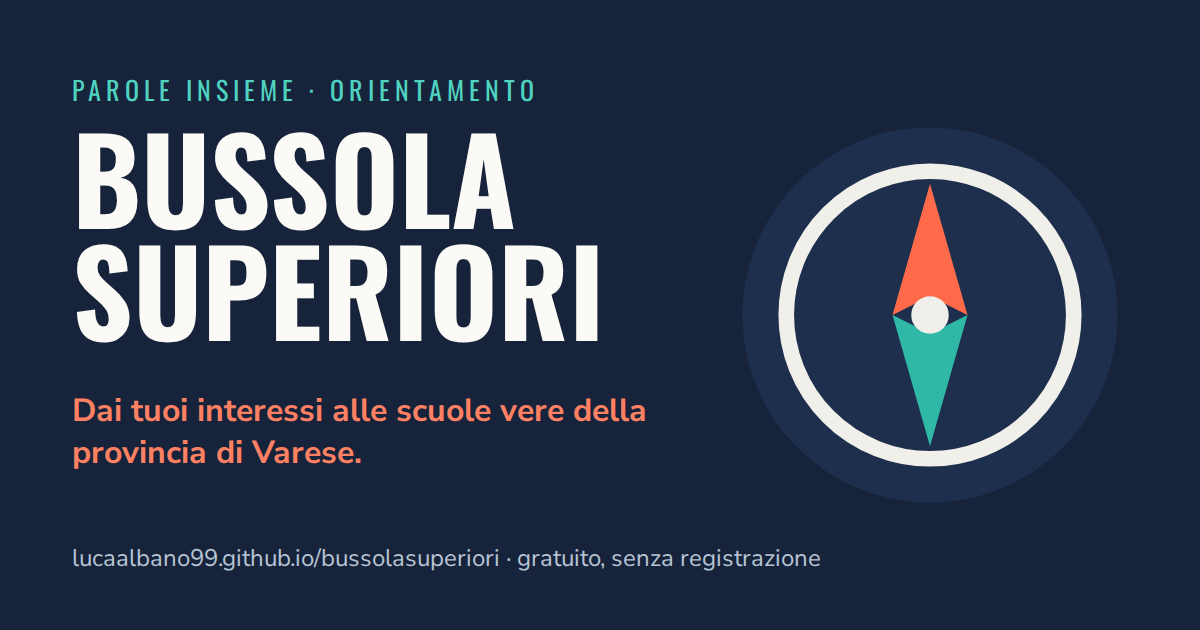
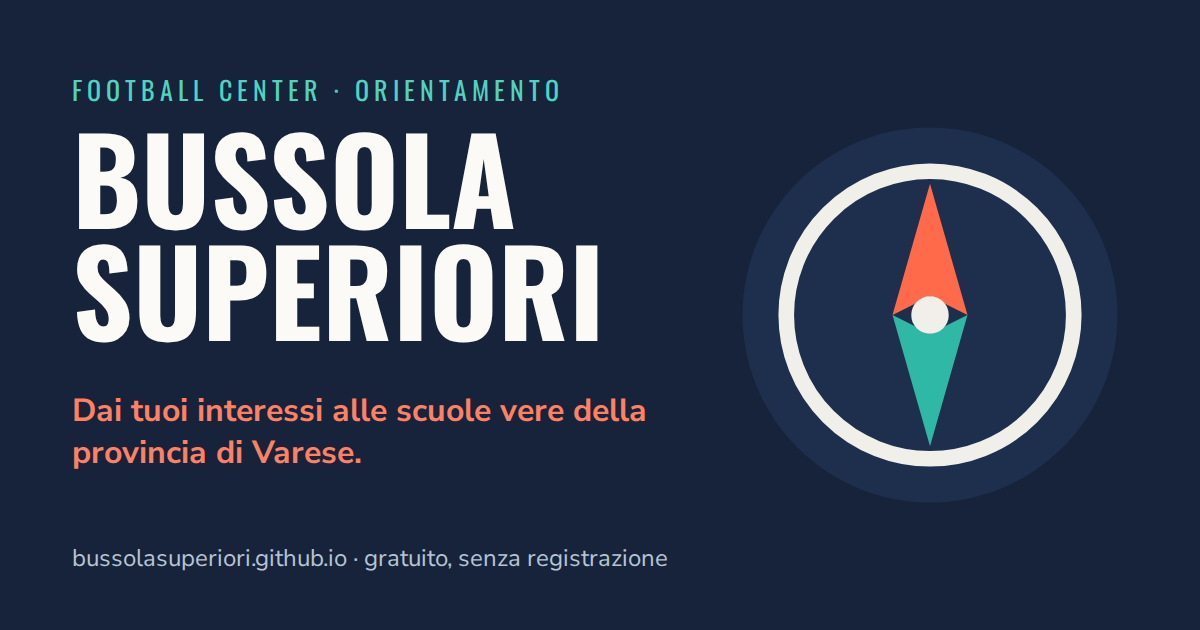
Add files via upload

Changed region(s): [[0.0617, 0.1206, 0.4625, 0.181], [0.0617, 0.8746, 0.6783, 0.9048]]

diff --git a/index.html b/index.html
@@ -3,13 +3,13 @@
 <head>
 <meta charset="utf-8">
 <meta name="viewport" content="width=device-width, initial-scale=1">
-<title>Orientamento superiori · Parole Insieme</title>
+<title>Orientamento superiori · Football Center</title>
 <meta name="description" content="Strumenti gratuiti per scegliere la scuola superiore in provincia di Varese: la Bussola Superiori, le schede da stampare e una guida per le famiglie.">
 <meta property="og:type" content="website">
 <meta property="og:title" content="Bussola Superiori · Orientamento in provincia di Varese">
 <meta property="og:description" content="Dai tuoi interessi agli indirizzi e alle scuole vere della provincia di Varese. Gratuito, senza registrazione.">
-<meta property="og:url" content="https://lucaalbano99.github.io/bussolasuperiori/">
-<meta property="og:image" content="https://lucaalbano99.github.io/bussolasuperiori/assets/anteprima.png">
+<meta property="og:url" content="https://bussolasuperiori.github.io/">
+<meta property="og:image" content="https://bussolasuperiori.github.io/assets/anteprima.png">
 <meta property="og:locale" content="it_IT">
 <meta name="theme-color" content="#16233A">
 <link rel="icon" href="assets/favicon.svg" type="image/svg+xml">
@@ -29,7 +29,7 @@
         <li><a href="famiglie.html">Per le famiglie</a></li>
       </ul>
     </nav>
-    <p class="kicker">Parole Insieme · Gallarate</p>
+    <p class="kicker">Football Center · Gallarate</p>
     <h1>Scegliere la superiore con dati veri</h1>
     <p class="sub">Strumenti gratuiti per ragazzi di terza media e per le loro famiglie, pensati per la provincia di Varese. Niente registrazione, niente pubblicità.</p>
   </div>
@@ -107,11 +107,11 @@
   <div class="wrap">
     <div class="row">
       <div>
-        <p><b>Un progetto di Parole Insieme</b>, centro studi e supporto scolastico di Gallarate.</p>
+        <p><b>Un progetto di Football Center</b>, associazione sportiva dilettantistica di Gallarate.</p>
         <p>Questo sito non usa cookie e non raccoglie dati personali: quello che inserisci nella Bussola resta sul tuo dispositivo. È ospitato su GitHub Pages.</p>
-        <p>Ultimo aggiornamento: 2 ottobre 2026.</p>
+        <p>Ultimo aggiornamento: 1 ottobre 2026.</p>
       </div>
-      <a class="logo" href="./" aria-label="Parole Insieme"><img src="assets/logo-parole-insieme.png" alt="Logo Parole Insieme" width="600" height="177"></a>
+      <a class="logo" href="./" aria-label="Football Center"><img src="assets/logo-football-center.png" alt="Logo Football Center" width="400" height="377"></a>
     </div>
   </div>
 </footer>

diff --git a/bussola/index.html b/bussola/index.html
@@ -8,8 +8,8 @@
 <meta property="og:type" content="website">
 <meta property="og:title" content="Bussola Superiori">
 <meta property="og:description" content="Dai tuoi interessi agli indirizzi e alle scuole vere della provincia di Varese. Gratuito, senza registrazione.">
-<meta property="og:url" content="https://lucaalbano99.github.io/bussolasuperiori/bussola/">
-<meta property="og:image" content="https://lucaalbano99.github.io/bussolasuperiori/assets/anteprima.png">
+<meta property="og:url" content="https://bussolasuperiori.github.io/bussola/">
+<meta property="og:image" content="https://bussolasuperiori.github.io/assets/anteprima.png">
 <meta property="og:locale" content="it_IT">
 <meta name="theme-color" content="#16233A">
 <link rel="icon" href="../assets/favicon.svg" type="image/svg+xml">
@@ -260,7 +260,7 @@
 <header class="top">
   <div class="wrap">
     <p class="sitenav"><a href="../">&larr; Orientamento superiori</a><a href="../#schede">Schede da stampare</a><a href="../famiglie.html">Per le famiglie</a></p>
-    <p class="kicker">Parole Insieme &middot; Orientamento terze medie</p>
+    <p class="kicker">Football Center &middot; Orientamento</p>
     <h1>Bussola Superiori</h1>
     <p class="sub">Dai tuoi interessi agli indirizzi che esistono davvero in provincia di Varese. Cinque passi, con dati veri sulle scuole.</p>
   </div>
@@ -360,7 +360,7 @@
   <!-- ============ PASSO 4 ============ -->
   <section id="s4" class="panel" aria-labelledby="h4a" hidden>
     <div id="printhead">
-      <p class="kicker" style="color:#000">Parole Insieme &middot; Bussola Superiori</p>
+      <p class="kicker" style="color:#000">Football Center &middot; Bussola Superiori</p>
       <h2 class="sec" style="margin:0">Scheda di orientamento</h2>
     </div>
 

diff --git a/famiglie.html b/famiglie.html
@@ -8,8 +8,8 @@
 <meta property="og:type" content="article">
 <meta property="og:title" content="Per le famiglie · Bussola Superiori">
 <meta property="og:description" content="Accompagnare la scelta della scuola superiore senza sostituirsi: una guida breve per i genitori.">
-<meta property="og:url" content="https://lucaalbano99.github.io/bussolasuperiori/famiglie.html">
-<meta property="og:image" content="https://lucaalbano99.github.io/bussolasuperiori/assets/anteprima.png">
+<meta property="og:url" content="https://bussolasuperiori.github.io/famiglie.html">
+<meta property="og:image" content="https://bussolasuperiori.github.io/assets/anteprima.png">
 <meta property="og:locale" content="it_IT">
 <meta name="theme-color" content="#16233A">
 <link rel="icon" href="assets/favicon.svg" type="image/svg+xml">
@@ -120,11 +120,11 @@
   <div class="wrap">
     <div class="row">
       <div>
-        <p><b>Un progetto di Parole Insieme</b>, centro studi e supporto scolastico di Gallarate.</p>
+        <p><b>Un progetto di Football Center</b>, associazione sportiva dilettantistica di Gallarate.</p>
         <p>Questo sito non usa cookie e non raccoglie dati personali. È ospitato su GitHub Pages.</p>
-        <p>Ultimo aggiornamento: 2 ottobre 2026.</p>
+        <p>Ultimo aggiornamento: 1 ottobre 2026.</p>
       </div>
-      <a class="logo" href="./" aria-label="Parole Insieme"><img src="assets/logo-parole-insieme.png" alt="Logo Parole Insieme" width="600" height="177"></a>
+      <a class="logo" href="./" aria-label="Football Center"><img src="assets/logo-football-center.png" alt="Logo Football Center" width="400" height="377"></a>
     </div>
   </div>
 </footer>

diff --git a/404.html b/404.html
@@ -4,9 +4,9 @@
 <meta charset="utf-8">
 <meta name="viewport" content="width=device-width, initial-scale=1">
 <title>Pagina non trovata · Orientamento superiori</title>
-<link rel="icon" href="/bussolasuperiori/assets/favicon.svg" type="image/svg+xml">
-<link rel="stylesheet" href="/bussolasuperiori/assets/fonts.css">
-<link rel="stylesheet" href="/bussolasuperiori/assets/site.css">
+<link rel="icon" href="/assets/favicon.svg" type="image/svg+xml">
+<link rel="stylesheet" href="/assets/fonts.css">
+<link rel="stylesheet" href="/assets/site.css">
 </head>
 <body>
 <header class="hero">
@@ -14,7 +14,7 @@
     <p class="kicker">Errore 404</p>
     <h1>Qui non c'è niente</h1>
     <p class="sub">La pagina che cercavi non esiste, o è stata spostata. Riparti da qui:</p>
-    <p><a class="btn" href="/bussolasuperiori/">Torna alla pagina iniziale</a></p>
+    <p><a class="btn" href="/">Torna alla pagina iniziale</a></p>
   </div>
 </header>
 </body>

diff --git a/assets/site.css b/assets/site.css
@@ -110,7 +110,7 @@ h2{font-size:clamp(28px,4vw,38px)}
 footer{margin-top:56px; border-top:1px solid var(--line); padding-block:32px 48px; color:var(--muted); font-size:15px}
 footer .row{display:flex; gap:24px; align-items:center; justify-content:space-between; flex-wrap:wrap}
 footer .logo{background:#FFFFFF; border-radius:12px; padding:8px 14px; display:inline-block}
-footer .logo img{width:220px; display:block}
+footer .logo img{width:120px; height:auto; display:block}
 footer p + p{margin-top:6px}
 
 @media (max-width:760px){
